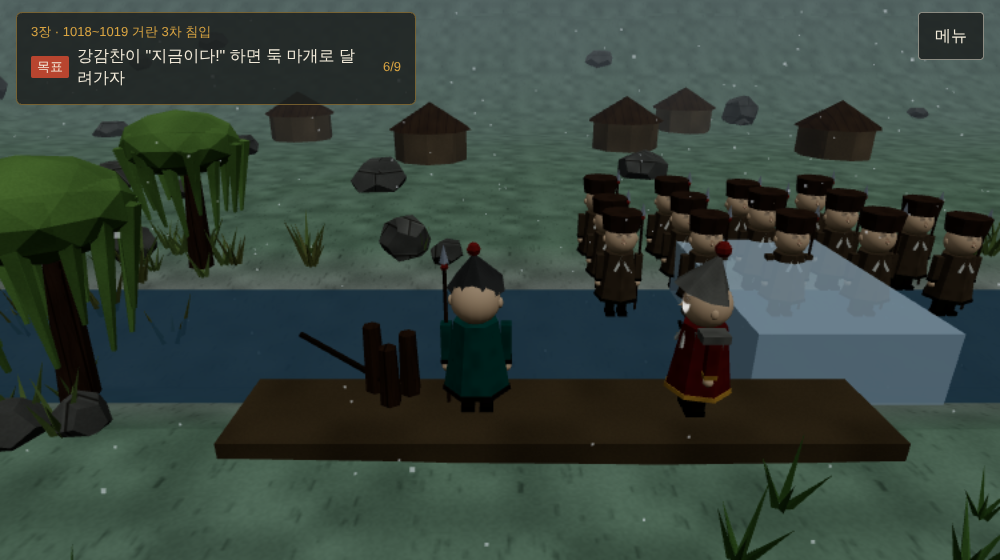
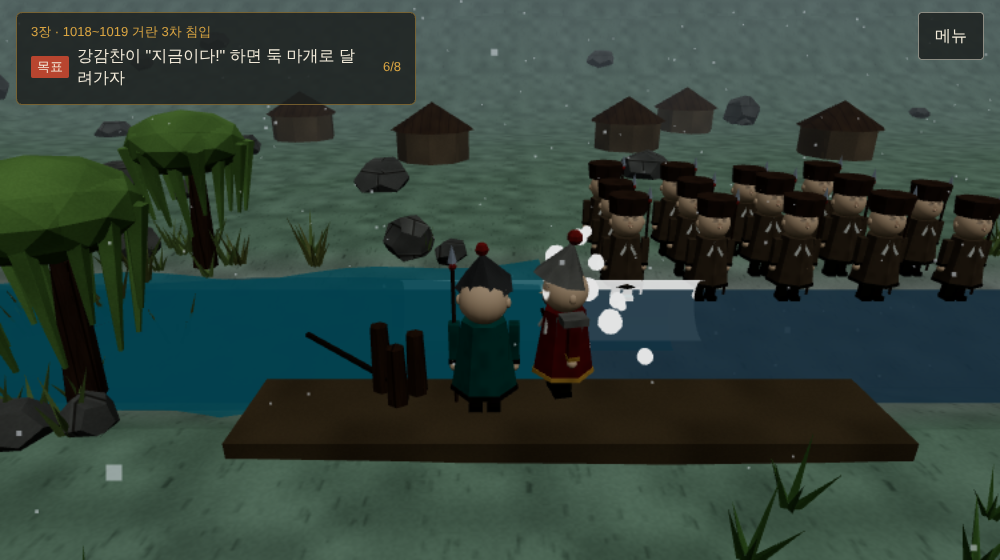
고려 3장 고칠 곳 셋(D-12): 미리 와 있으면 신호 없음·강감찬 곁에서 기다려야 신호, 귀주는 장면 전환으로 언덕 위 대치, 쏟아지는 물을 물처럼
- 마개·북 앞에 미리 오면 '내 곁에서 기다려라' + 강감찬 곁으로 화살표, 곁으로 돌아와야 '지금이다!'
- 귀주: 짧게 어두워졌다 밝아지며 귀주 언덕(진영과 멀리 떨어진 곳)으로, 거란군은 들판 건너편(약 20m), 진영 울타리·삼교천 거란군은 숨김
- 물: 청록 반투명 물살 + 흰 물거품 + 물보라(보통·높음만 출렁임), 거란군은 물에 밀려 북쪽 강둑으로 물러남(가라앉지 않음)
- 사진 ch3-game.png 다시, ch3-guiju.png

Claude-Session: https://claude.ai/code/session_014LB5kAoBxkJ3uzw5BHNRPe

diff --git a/chapters/ch3/scene.js b/chapters/ch3/scene.js
@@ -13,7 +13,13 @@ import { createWeather } from '../../core/weather.js';
 const RIVER_Z = -8, RIVER_W = 6;
 const DAM_X = -10;   // 쇠가죽 둑(냇물 위쪽). 물은 +x 쪽(아래쪽)으로 흐른다
 const ARMY_X = 1.5;  // 거란군이 냇물을 건너는 여울(둑 위 학생 자리에서 화면 안에 보이게)
-const GUJU_Z = 42;   // 귀주 벌판(진영 남문 밖). 귀주 놀이 때만 보인다
+const GUJU_Z = 75;   // 귀주 벌판(진영에서 멀리 남쪽, 장면 전환으로만 간다). 귀주 놀이 때만 보인다
+// 귀주 언덕(D-12): 고려군 뒤 둥근 언덕. 꼭대기(타원, 가로 반지름 12·세로 6)는 높이 HILL_H로 평평하다
+export const HILL = { x: 0, z: GUJU_Z + 11, rx: 12, rz: 6 };
+export const HILL_H = 1.2;
+export function hillHeight(x, z) {
+  return ((x - HILL.x) / HILL.rx) ** 2 + ((z - HILL.z) / HILL.rz) ** 2 < 1 ? HILL_H : 0;
+}
 const GATE_Z = 24;   // 진영 남문
 // 냇가 둑(D-10): 학생과 강감찬이 올라서는 흙둑. 둑 위 높이 BANK_TOP
 export const BANK = { x0: DAM_X - 0.6, x1: DAM_X + 10.6, z0: -4.6, z1: -2.6 };
@@ -32,6 +38,52 @@ function groundH(x, z) {
 }
 
 function seeded(s) { return () => (s = (s * 16807) % 2147483647) / 2147483647; }
+
+// 쏟아지는 물(D-12): 둑에서 아래쪽(+x)으로 흘러가며 퍼지는 청록 반투명 물살과 앞쪽의 흰 물거품.
+// 평면·곡면 몇 장으로 만들고, 화질 '보통·높음'(waves)에서만 꼭짓점을 위치에 따라 출렁이게 한다.
+function makeFlood(parent, waves) {
+  const g = new THREE.Group(); g.visible = false; parent.add(g);
+  const LEN = 34, W = RIVER_W + 1.2;
+  const bodyGeo = new THREE.PlaneGeometry(LEN, W, waves ? 34 : 1, waves ? 6 : 1).rotateX(-Math.PI / 2).translate(-LEN / 2, 0, 0); // 앞끝이 x=0
+  const body = new THREE.Mesh(bodyGeo, new THREE.MeshPhongMaterial({ color: 0x2f8a92, transparent: true, opacity: 0.78, shininess: 60, specular: 0x9fd6dc, depthWrite: false }));
+  g.add(body);
+  const back = new THREE.Mesh(new THREE.PlaneGeometry(LEN, W + 1.6).rotateX(-Math.PI / 2).translate(-LEN / 2, -0.12, 0), new THREE.MeshLambertMaterial({ color: 0x1f6670, transparent: true, opacity: 0.55, depthWrite: false }));
+  g.add(back);
+  // 앞쪽 물마루: 반쯤 감긴 곡면(물살 색) 위에 흰 물거품 곡면
+  const crestGeo = new THREE.CylinderGeometry(0.75, 0.75, W, 12, 1, true, 0, Math.PI).rotateX(Math.PI / 2).rotateY(Math.PI / 2);
+  const crest = new THREE.Mesh(crestGeo, new THREE.MeshPhongMaterial({ color: 0x3fa3aa, transparent: true, opacity: 0.85, side: THREE.DoubleSide, depthWrite: false }));
+  crest.position.set(-0.4, 0.15, 0); g.add(crest);
+  const foamGeo = new THREE.CylinderGeometry(0.85, 0.85, W + 0.3, 12, waves ? 6 : 1, true, 0, Math.PI * 0.9).rotateX(Math.PI / 2).rotateY(Math.PI / 2);
+  const foam = new THREE.Mesh(foamGeo, new THREE.MeshBasicMaterial({ color: 0xf4f8f8, transparent: true, opacity: 0.9, side: THREE.DoubleSide, depthWrite: false }));
+  foam.position.set(0.1, 0.55, 0); g.add(foam);
+  const spray = [];
+  if (waves) for (let i = 0; i < 12; i++) { // 앞에서 튀는 물보라(보통·높음만)
+    const s = new THREE.Mesh(new THREE.SphereGeometry(0.35, 7, 5), foam.material); s.userData.k = (i * 0.37) % 1; g.add(s); spray.push(s);
+  }
+  const bp = bodyGeo.attributes.position, base = Float32Array.from(bp.array);
+  const fp = foamGeo.attributes.position, fbase = Float32Array.from(fp.array);
+  return {
+    group: g,
+    // t초째 모습: 앞끝 x, 퍼지는 정도, 출렁임
+    show(front, spread, t) {
+      g.visible = true;
+      g.position.set(front, -0.3, RIVER_Z);
+      g.scale.set(1, 1, spread);
+      foam.scale.y = 1 + Math.sin(t * 9) * 0.12; crest.rotation.x = Math.sin(t * 5) * 0.08;
+      if (waves) {
+        for (let i = 0; i < bp.count; i++) {
+          const x = base[i * 3], z = base[i * 3 + 2], near = Math.max(0, 1 + x / 8); // 앞쪽일수록 높고 거칠다
+          bp.setY(i, Math.sin(x * 0.9 + t * 7 + z * 0.8) * 0.12 + Math.cos(z * 1.7 - t * 5) * 0.06 + near * 0.5);
+        }
+        bp.needsUpdate = true;
+        for (let i = 0; i < fp.count; i++) fp.setY(i, fbase[i * 3 + 1] + Math.sin(fbase[i * 3 + 2] * 2.3 + t * 11) * 0.08);
+        fp.needsUpdate = true;
+        spray.forEach((s, i) => { const k = (t * 1.6 + s.userData.k) % 1; s.position.set(0.3 + k * 1.5, 0.6 + Math.sin(k * Math.PI) * 1.1, (i / 11 - 0.5) * W * 0.95); s.scale.setScalar(1 - k * 0.7); });
+      }
+    },
+    hide() { g.visible = false; },
+  };
+}
 
 export function buildCh3Scene(world) {
   const L = world.level, rand = seeded(19);
@@ -105,9 +157,7 @@ export function buildCh3Scene(world) {
   const plugRing = new THREE.Mesh(new THREE.RingGeometry(0.9, 1.25, 28), ring.material.clone());
   plugRing.rotation.x = -Math.PI / 2; plugRing.position.set(plugAt.x, BANK_TOP + 0.06, plugAt.z); plugRing.visible = false; L.add(plugRing);
   // 터지는 물결
-  const wave = mk(new THREE.BoxGeometry(4, 1.6, RIVER_W), 0xcfe3ec, DAM_X, 0.3, RIVER_Z, L, false);
-  wave.material = new THREE.MeshLambertMaterial({ color: 0xcfe3ec, transparent: true, opacity: 0.8 });
-  wave.visible = false;
+  const flood = makeFlood(L, world.quality.water === 'waves');
 
   // 냇물을 건너는 거란군 (북쪽 강둑 → 남쪽)
   const zNorth = RIVER_Z - RIVER_W / 2, zSouth = RIVER_Z + RIVER_W / 2;
@@ -128,25 +178,29 @@ export function buildCh3Scene(world) {
   const guju = new THREE.Group(); guju.visible = false; L.add(guju);
   const gujuFlags = [], gujuKhitan = [], gujuGoryeo = [];
   for (let i = 0; i < 12; i++) {
-    const p = makePerson(LOOKS.player); p.position.set(-11 + i * 2, 0, GUJU_Z + 6); p.rotation.y = Math.PI; guju.add(p); gujuGoryeo.push(p);
-    const q = makePerson(LOOKS.khitan); q.position.set(-11 + i * 2, 0, GUJU_Z - 6); q.rotation.order = 'YXZ'; guju.add(q); gujuKhitan.push(q);
+    const p = makePerson(LOOKS.player); p.position.set(-11 + i * 2, 0, GUJU_Z + 2); p.rotation.y = Math.PI; guju.add(p); gujuGoryeo.push(p);
+    const q = makePerson(LOOKS.khitan); q.position.set(-11 + i * 2, 0, GUJU_Z - 18); q.rotation.order = 'YXZ'; guju.add(q); gujuKhitan.push(q);
   }
   // 싸움 먼지: 두 군대가 부딪치는 곳에 피어오르는 흙먼지(처음엔 숨김)
   const dust = [];
   for (let i = 0; i < 10; i++) {
     const d = new THREE.Mesh(new THREE.SphereGeometry(1, 8, 6), new THREE.MeshLambertMaterial({ color: 0xb8a888, transparent: true, opacity: 0, depthWrite: false }));
-    d.position.set(-10 + i * 2.2, 0.8, GUJU_Z); d.userData.ph = i * 0.7; d.visible = false; guju.add(d); dust.push(d);
+    d.position.set(-10 + i * 2.2, 0.8, GUJU_Z - 16); d.userData.ph = i * 0.7; d.visible = false; guju.add(d); dust.push(d);
   }
   for (const [x, c] of [[-8, 0xb8452f], [0, 0xd9a441], [8, 0xb8452f]]) {
-    mk(new THREE.CylinderGeometry(0.08, 0.08, 5, 5), 0x5a3f2a, x, 2.5, GUJU_Z + 8, guju);
+    mk(new THREE.CylinderGeometry(0.08, 0.08, 5, 5), 0x5a3f2a, x, 2.5 + HILL_H, GUJU_Z + 8, guju);
     const f = new THREE.Mesh(new THREE.PlaneGeometry(1.6, 2.2).translate(0.8, 0, 0), new THREE.MeshLambertMaterial({ color: c, side: THREE.DoubleSide }));
-    f.position.set(x, 3.8, GUJU_Z + 8); guju.add(f); gujuFlags.push(f);
+    f.position.set(x, 3.8 + HILL_H, GUJU_Z + 8); guju.add(f); gujuFlags.push(f);
   }
   const reinforcements = new THREE.Group(); reinforcements.visible = false; guju.add(reinforcements);
   for (let i = 0; i < 8; i++) {
     const p = makePerson(look('soldier', { robe: 0x3c5a7a })); p.position.set((i % 4) * 2, 0, Math.floor(i / 4) * 2); p.rotation.y = -Math.PI / 2; reinforcements.add(p);
   }
-  reinforcements.position.set(30, 0, GUJU_Z + 4);
+  reinforcements.position.set(30, 0, GUJU_Z - 2);
+  { // 귀주 언덕: 꼭대기가 평평한 둥근 흙언덕(고려군 뒤)
+    const hill = mk(new THREE.CylinderGeometry(1, 1.35, HILL_H + 0.4, 24), 0x5f7a45, HILL.x, (HILL_H + 0.4) / 2 - 0.4, HILL.z, guju);
+    hill.scale.set(HILL.rx, 1, HILL.rz);
+  }
   // 신호 북(D-10): 고려군 깃발 뒤 나무 틀에 건 큰 북. 빛나는 원은 강감찬이 "지금이다!" 할 때 켜진다
   const drumMesh = new THREE.Group(); guju.add(drumMesh);
   for (const sx of [-0.75, 0.75]) mk(new THREE.BoxGeometry(0.16, 2, 0.16), 0x5a3f2a, sx, 1, 0, drumMesh);
@@ -154,25 +208,26 @@ export function buildCh3Scene(world) {
   const drumBody = mk(new THREE.CylinderGeometry(0.62, 0.62, 0.7, 14), 0x8a2f24, 0, 1.25, 0, drumMesh); drumBody.rotation.x = Math.PI / 2;
   for (const sz of [-0.36, 0.36]) { const head = mk(new THREE.CylinderGeometry(0.6, 0.6, 0.04, 14), 0xe2d6b4, 0, 1.25, sz, drumMesh); head.rotation.x = Math.PI / 2; }
   const drumRing = new THREE.Mesh(new THREE.RingGeometry(0.9, 1.25, 28), ring.material.clone());
-  drumRing.rotation.x = -Math.PI / 2; drumRing.position.y = 0.08; drumRing.visible = false; guju.add(drumRing);
+  drumRing.rotation.x = -Math.PI / 2; drumRing.visible = false; guju.add(drumRing);
   const drum = { x: 0, z: GUJU_Z + 11, r: 1.3, mesh: drumMesh, ring: drumRing,
-    place(x) { this.x = x; drumMesh.position.set(x, 0, this.z - 1.2); drumRing.position.x = x; drumRing.position.z = this.z; } };
+    place(x) { this.x = x; drumMesh.position.set(x, HILL_H, this.z - 1.2); drumRing.position.set(x, HILL_H + 0.08, this.z); } };
   drum.place(5);
 
   // 진영 남문과 울타리(D-10 시작 장면): 문짝 두 개가 열리고 학생이 걸어 들어온다. 문 안쪽 길옆에 이름판
+  const campEdge = new THREE.Group(); L.add(campEdge); // 귀주 장면에서는 숨긴다(멀리 진영 울타리가 보이지 않게)
   {
     const xs = [];
     for (let x = -34; x <= 34; x += 0.9) if (Math.abs(x) > 2.6) xs.push(x);
     const pm = new THREE.InstancedMesh(new THREE.CylinderGeometry(0.17, 0.2, 2.6, 6), mat(0x6b4a32, 'wood', 'object'), xs.length);
     const o = new THREE.Object3D();
     xs.forEach((x, i) => { o.position.set(x, 1.3, GATE_Z); o.rotation.y = i; o.updateMatrix(); pm.setMatrixAt(i, o.matrix); });
-    pm.castShadow = true; L.add(pm);
+    pm.castShadow = true; campEdge.add(pm);
     for (let x = -33; x <= 33; x += 1.6) if (Math.abs(x) > 3) world.addCollider({ x, z: GATE_Z, r: 0.9 });
-    for (const sx of [-1, 1]) mk(new THREE.BoxGeometry(0.4, 3.6, 0.4), 0x5a3f2a, sx * 2.7, 1.8, GATE_Z);
-    mk(new THREE.BoxGeometry(6, 0.35, 0.45), 0x5a3f2a, 0, 3.5, GATE_Z);
+    for (const sx of [-1, 1]) mk(new THREE.BoxGeometry(0.4, 3.6, 0.4), 0x5a3f2a, sx * 2.7, 1.8, GATE_Z, campEdge);
+    mk(new THREE.BoxGeometry(6, 0.35, 0.45), 0x5a3f2a, 0, 3.5, GATE_Z, campEdge);
   }
-  const gate = gateLeaves(L, { x: 0, z: GATE_Z, width: 5, height: 2.6, color: 0x6b4a32 });
-  nameBoard(L, '삼교천 진영', 3.5, GATE_Z - 3); // 출처 S3(흥화진 앞 삼교천)
+  const gate = gateLeaves(campEdge, { x: 0, z: GATE_Z, width: 5, height: 2.6, color: 0x6b4a32 });
+  nameBoard(campEdge, '삼교천 진영', 3.5, GATE_Z - 3); // 출처 S3(흥화진 앞 삼교천)
 
   // 빗물 웅덩이 (진영 바닥)
   {
@@ -191,8 +246,8 @@ export function buildCh3Scene(world) {
     }
     const keep = [[10, -1.5], [-14, 9], [-6, 12], [8, 11], [16, 8], [22, 12], [-24, 6], [-12, 3], [-2, 7], [6, 3.5], [14, 4], [24, 5], [-4, 5], [5, 7.5], [0, 10], [DAM_X + 1, -1.4], [0, 14], [3.5, GATE_Z - 3]].map(([x, z]) => ({ x, z, r: 2.6 }));
     scatter(world, { kind: 'grass', count: 120, area: { x0: -28, x1: 28, z0: -2, z1: 16 }, avoid: keep, seed: 43, ground: groundH, color: 0x6f8f4a });
-    scatter(world, { kind: 'pine', count: 40, area: { x0: -70, x1: 70, z0: 20, z1: 110 }, avoid: [{ x: 0, z: GUJU_Z, r: 30 }, { x: 22, z: GUJU_Z + 18, r: 10 }, { x: 0, z: GATE_Z + 8, r: 10 }, { x: -15, z: GUJU_Z, r: 14 }], seed: 44, ground: groundH, scale: [1, 1.6] });
-    scatter(world, { kind: 'grass', count: 140, area: { x0: -26, x1: 34, z0: GUJU_Z - 14, z1: GUJU_Z + 16 }, seed: 45, ground: groundH, color: 0x7a9450 });
+    scatter(world, { kind: 'pine', count: 40, area: { x0: -70, x1: 70, z0: 20, z1: 110 }, avoid: [{ x: 0, z: GUJU_Z, r: 30 }, { x: 22, z: GUJU_Z + 18, r: 10 }, { x: 0, z: GATE_Z + 8, r: 10 }, { x: 0, z: GUJU_Z - 30, r: 22 }], seed: 44, ground: groundH, scale: [1, 1.6] });
+    scatter(world, { kind: 'grass', count: 140, area: { x0: -26, x1: 34, z0: GUJU_Z - 24, z1: GUJU_Z + 4 }, seed: 45, ground: groundH, color: 0x7a9450 });
     scatter(world, { kind: 'rock', count: 20, area: { x0: -60, x1: 60, z0: -60, z1: -16 }, seed: 46, ground: groundH, scale: [0.8, 2.2] });
   }
   const rain = createWeather(world, 'rain', { count: 900 });
@@ -204,16 +259,15 @@ export function buildCh3Scene(world) {
   // 깃발 방향: 북쪽(-z)으로 휘날리면 rotation.y = +PI/2, 남쪽이면 -PI/2
   let flagDir = -Math.PI / 2;
   const scene = {
-    gate, damX: DAM_X, plug: { ...plugAt, r: 1.3, ring: plugRing }, drum,
-    stand: { x: DAM_X + 6, z: -3.6 }, gangOnBank: [DAM_X + 7.4, -3.6],
+    gate, campEdge, damX: DAM_X, plug: { ...plugAt, r: 1.3, ring: plugRing }, drum,
+    stand: { x: DAM_X + 6, z: -3.6 }, gangOnBank: [DAM_X + 5, -4.2], // 강감찬은 학생 서쪽(마개 쪽)에 서서 거란군 쪽 화면을 가리지 않는다
     gujuStand: [-2.5, GUJU_Z + 11], gangAtGuju: [-4, GUJU_Z + 11],
     // 둑으로 가는 길(쇠가죽을 둔 곳 옆에서 둑 위로), 귀주로 가는 길(남문을 나가 거란군 줄의 서쪽으로 돌아 고려군 뒤로)
-    bankPath: [[DAM_X + 3, -1.6], [DAM_X + 3.6, -3.6], [DAM_X + 7.4, -3.6]],
-    gujuPath: [[DAM_X + 7, -1.2], [0, 2], [0, 14], [0, GATE_Z + 2], [-15, GATE_Z + 6], [-15, GUJU_Z + 11], [-4, GUJU_Z + 11]],
-    hides, damWall, ring, wave, rain, flagPoles, gujuFlags, gujuKhitan, gujuGoryeo, reinforcements, guju, dust, gujuZ: GUJU_Z,
+    bankPath: [[DAM_X + 3, -1.6], [DAM_X + 3.6, -3.6], [DAM_X + 5, -4.2]],
+    hides, damWall, ring, flood, rain, flagPoles, gujuFlags, gujuKhitan, gujuGoryeo, reinforcements, guju, dust, gujuZ: GUJU_Z,
     dam: { x: DAM_X + 1, z: -1.4, r: 1.6 },
     river: { army, setCross, zNorth, zSouth },
-    gujuBounds: { x0: -12, x1: 12, z0: GUJU_Z + 7, z1: GUJU_Z + 12 },
+    gujuBounds: { x0: -9, x1: 9, z0: GUJU_Z + 8, z1: GUJU_Z + 14 },
     start: [0, 10],
     setFlags(northward) { flagDir = northward ? Math.PI / 2 : -Math.PI / 2; rain.setWind(northward ? -2 : 2); },
   };
@@ -221,7 +275,7 @@ export function buildCh3Scene(world) {
     for (const f of [...flagPoles, ...gujuFlags]) f.rotation.y += (flagDir + Math.sin(t * 3 + f.position.x) * 0.25 - f.rotation.y) * Math.min(1, dt * 3);
     for (const r of [ring, plugRing, drumRing]) if (r.visible) r.material.opacity = 0.55 + Math.sin(t * 4) * 0.3;
     // 흙둑 위에서는 학생과 강감찬이 둑 높이에 선다
-    for (const o of [world.player, world.npcs.get('gangamchan').mesh]) o.position.y += (bankHeight(o.position.x, o.position.z) - o.position.y) * Math.min(1, dt * 14);
+    for (const o of [world.player, world.npcs.get('gangamchan').mesh]) o.position.y += (Math.max(bankHeight(o.position.x, o.position.z), guju.visible ? hillHeight(o.position.x, o.position.z) : 0) - o.position.y) * Math.min(1, dt * 14);
     hides.forEach((h, i) => { if (!h.taken) h.mesh.rotation.y = Math.sin(t + i) * 0.2; });
   });
   scene.setFlags(false);

diff --git a/chapters/ch3/script.js b/chapters/ch3/script.js
@@ -16,7 +16,7 @@ export default {
     { who: 'guide', text: '여기는 흥화진 앞을 흐르는 냇물, 삼교천 가의 고려군 진영이야. 비바람이 거세게 불고 있어. 머리 위에 노란 느낌표가 뜬 병사에게 무슨 일인지 물어보자.' },
   ],
 
-  goals: ['진영 사람들의 이야기를 들어 보자', '강감찬을 찾아가자', '쇠가죽 묶음을 모두 모으자', '쇠가죽을 둑(빛나는 원)으로 가져가자', '강감찬을 따라 둑 위로 가자', '강감찬이 "지금이다!" 하면 둑 마개로 달려가자', '강감찬을 따라 귀주 언덕으로 가자', '깃발이 북쪽으로 휘날리면 신호 북을 치자', '배운 내용을 확인해 보자'],
+  goals: ['진영 사람들의 이야기를 들어 보자', '강감찬을 찾아가자', '쇠가죽 묶음을 모두 모으자', '쇠가죽을 둑(빛나는 원)으로 가져가자', '강감찬을 따라 둑 위로 가자', '강감찬이 "지금이다!" 하면 둑 마개로 달려가자', '깃발이 북쪽으로 휘날리면 신호 북을 치자', '배운 내용을 확인해 보자'],
 
   // 한 사람의 이야기를 처음 다 들은 뒤, 다음에 찾아갈 사람을 알려 주는 진행 안내(병사 → 척후병 → 강감찬)
   next: {
@@ -64,15 +64,15 @@ export default {
       { who: 'gangamchan', text: '둑 위로 올라가자. 나를 따르라.' },
       { who: 'guide', text: '강감찬이 앞장서서 둑 위로 올라가. 뒤따라가자.' },
     ],
-    start: [{ who: 'gangamchan', text: '거란군이 냇물을 건너기 시작한다. 내가 "지금이다!" 하면 저 둑 마개로 달려가라.' }],
+    start: [{ who: 'gangamchan', text: '거란군이 냇물을 건너기 시작한다. 내 곁에서 기다리다가, 내가 "지금이다!" 하면 저 둑 마개로 달려가라.' }],
     howto: {
       title: '둑 터뜨리기',
-      steps: ['강감찬이 "지금이다!" 하면 빛나는 둑 마개로 걸어가요.', '거란군이 냇물을 다 건너기 전에 마개에 닿으면 성공!'],
+      steps: ['강감찬 곁에서 기다리다 "지금이다!" 하면 빛나는 둑 마개로 걸어가요.', '거란군이 냇물을 다 건너기 전에 마개에 닿으면 성공!'],
       keyboard: 'W A S D 또는 방향키로 둑 위를 걷기',
       touch: '화면 왼쪽을 끌어 둑 위를 걷기',
     },
     now: '지금이다!',
-    wait: '아직이다!',
+    wait: '아직이다! 내 곁에서 기다려라',
     late: '적이 냇물을 거의 다 건넜어요. 다시 해 봐요.',
     done: [{ who: 'narr', text: '막아 둔 물을 한꺼번에 내려보내 거란군에 큰 피해를 주었어요.', src: ['S3'] }],
   },
@@ -80,18 +80,17 @@ export default {
   guju: {
     lead: [
       { who: 'narr', text: '1019년 2월, 강감찬은 귀주에서 거란군과 다시 맞섰어요.', src: ['S5'] },
-      { who: 'gangamchan', text: '귀주로 간다. 나를 따르라.' },
     ],
-    intro: [{ who: 'guide', text: '여기는 귀주 벌판이야. 고려군과 거란군이 팽팽하게 맞서고 있어!' }],
-    start: [{ who: 'gangamchan', text: '깃발을 잘 보아라. 내가 "지금이다!" 하면 저 신호 북을 울려라.' }],
+    intro: [{ who: 'guide', text: '여기는 귀주 언덕이야. 고려군과 거란군이 들판을 사이에 두고 맞서고 있어!' }],
+    start: [{ who: 'gangamchan', text: '내 곁에서 깃발을 잘 보아라. 내가 "지금이다!" 하면 저 신호 북을 울려라.' }],
     howto: {
       title: '귀주의 바람',
-      steps: ['깃발이 북쪽으로 휘날리고 강감찬이 "지금이다!" 하면 빛나는 신호 북으로 걸어가요.', '바람이 잦아들기 전에 북에 닿으면 성공!'],
+      steps: ['강감찬 곁에서 깃발을 보다가 "지금이다!" 하면 빛나는 신호 북으로 걸어가요.', '바람이 잦아들기 전에 북에 닿으면 성공!'],
       keyboard: 'W A S D 또는 방향키로 이동',
       touch: '화면 왼쪽을 끌어 이동',
     },
     now: '지금이다!',
-    wait: '깃발을 보아라!',
+    wait: '깃발을 보아라! 내 곁에서 기다려라',
     late: '바람이 다시 잦아들었어요. 다시 해 봐요.',
     arrive: '김종현의 지원군이 도착했다!',
     charge: [{ who: 'gangamchan', text: '바람이 우리 편이다! 모두 앞으로 나아가라!' }],

diff --git a/tests/ch3.test.js b/tests/ch3.test.js
@@ -174,5 +174,77 @@ test('ch3 D-10: full run keeps the low camera and walks (no fixed camera, no but
     eq(r.firstTryTotal, 2); eq(r.firstTryCorrect, 2);
     eq(s.w.followOffset, null);
     ok(sc.damWall.visible, 'dam stays');
+    ok(sc.river.army.position.y > -0.01, 'the Khitan army was pushed back, not sunk');
   } finally { off(); bot.stop(); s.done(); }
 }, { timeout: 150000 });
+
+// ---- D-12: 미리 와 있으면 신호가 나지 않고, 강감찬 곁으로 돌아와야 신호. 귀주는 장면 전환으로 언덕에서 대치 ----
+test('ch3 D-12: waiting at the plug never gets the signal; coming back beside Gang Gam-chan does', async () => {
+  const s = touchSetup(ch3Script.speakers);
+  try {
+    const sc = ch3.buildScene(s.w, s.ctx);
+    setupDam(s.ctx);
+    let res = null;
+    damAttempt(s.ctx, false, { why: '' }).then(r => { res = r; });
+    const y = s.w.player.position.y;
+    s.w.player.position.set(sc.plug.x, y, sc.plug.z);
+    for (let i = 0; i < 140; i++) s.w.step(0.05, { x: 0, z: 0 }); // 7초: 신호 구간(5~8.2초)에 들어섰다
+    await sleep(5);
+    eq(res, null, 'nothing bursts while the student waits at the plug');
+    eq(s.ctx.testHooks.damNow, false, 'no signal yet');
+    const g = s.w.getGoal(); ok(g && Math.abs(g.x - sc.stand.x) < 0.01, 'arrow points back beside Gang Gam-chan');
+    s.w.player.position.set(sc.stand.x, y, sc.stand.z);
+    s.w.step(0.05, { x: 0, z: 0 });
+    eq(s.ctx.testHooks.damNow, true, 'signal once back beside him');
+    s.w.player.position.set(sc.plug.x, y, sc.plug.z);
+    s.w.step(0.05, { x: 0, z: 0 });
+    await sleep(5);
+    eq(res, true);
+  } finally { s.done(); }
+});
+
+test('ch3 D-12: the drum also waits until the student is beside Gang Gam-chan', async () => {
+  const s = touchSetup(ch3Script.speakers);
+  try {
+    const sc = ch3.buildScene(s.w, s.ctx);
+    setupGuju(s.ctx, false);
+    let res = null;
+    gujuAttempt(s.ctx, false, { why: '' }).then(r => { res = r; });
+    s.w.player.position.set(sc.drum.x, s.w.player.position.y, sc.drum.z);
+    for (let i = 0; i < 130; i++) s.w.step(0.05, { x: 0, z: 0 }); // 6.5초: 깃발은 이미 북쪽
+    await sleep(5);
+    eq(res, null); eq(s.ctx.testHooks.drumNow, false);
+    s.w.player.position.set(sc.gujuStand[0], s.w.player.position.y, sc.gujuStand[1]);
+    s.w.step(0.05, { x: 0, z: 0 });
+    eq(s.ctx.testHooks.drumNow, true);
+  } finally { s.done(); }
+});
+
+test('ch3 D-12: Guju opens on the hill beside Gang Gam-chan, the Khitan camp far across the field, no Samgyocheon soldiers', () => {
+  const s = touchSetup(ch3Script.speakers);
+  try {
+    const sc = ch3.buildScene(s.w, s.ctx);
+    setupGuju(s.ctx, false);
+    for (let i = 0; i < 20; i++) s.w.step(0.05, { x: 0, z: 0 });
+    ok(s.w.player.position.y > 1, `student stands on the hill (${s.w.player.position.y.toFixed(2)})`);
+    const gc = s.w.npcs.get('gangamchan').mesh.position;
+    ok(Math.hypot(gc.x - s.w.player.position.x, gc.z - s.w.player.position.z) < 2.6, 'beside Gang Gam-chan');
+    const gap = Math.min(...sc.gujuGoryeo.map(p => p.position.z)) - Math.max(...sc.gujuKhitan.map(p => p.position.z));
+    ok(gap > 15, `the armies face each other across the field (${gap})`);
+    eq(sc.river.army.visible, false, 'Samgyocheon Khitan army hidden');
+    ok(Math.min(...sc.gujuKhitan.map(p => p.position.z)) - 20 > 24, 'Guju is far from the camp');
+  } finally { s.done(); }
+});
+
+test('ch3 D-12: the flood is water (teal, see-through, white foam), pushes the Khitan back and nobody sinks', () => {
+  const s = touchSetup(ch3Script.speakers);
+  try {
+    const sc = ch3.buildScene(s.w, s.ctx);
+    sc.flood.show(0, 1.2, 0.5);
+    let teal = false, foam = false;
+    sc.flood.group.traverse(o => { if (o.material) { const c = o.material.color; if (o.material.transparent && c.b > c.r && c.g > c.r) teal = true; if (c.r > 0.9 && c.g > 0.9 && c.b > 0.9) foam = true; } });
+    ok(teal && foam, 'teal water and white foam');
+    sc.flood.hide();
+    eq(sc.flood.group.visible, false);
+  } finally { s.done(); }
+});

diff --git a/docs/team/decisions.md b/docs/team/decisions.md
@@ -137,7 +137,7 @@
   3. 둑에서 쏟아지는 물을 더 물처럼 보이게 한다(출렁이는 물결·튀는 물, 불길 없음, 화질 제한 안에서).
 - 하지 않을 것: 다른 장 변경, 새 사실, 불길 표현, 전체 테스트(고려 3장 관련만), main 병합·배포
 - 확인 방법: 선생님이 3장을 다시 걸어 보신다
-- 상태: 개발 중
+- 상태: 확인 대기
 
 ## D-13 (2026-10-27) 고려 4장: 말이 모이는 탐험 + 김윤후와 걷는 처인성 방어 + 충주성 문서 가져다 놓기
 - 선생님 결정: "모두 중간". ① 탐험: 백성→관리, 말이 도읍 고르기로 이어짐 ② 처인성: 김윤후를 따라 성벽 위를 걷고, 가리킨 곳에 가까이 가면 궁수가 활을 쏨 ③ 충주성: 김윤후를 따라 관청 마당에 가서 노비 문서를 가져다 놓음(불길 없이 연기). 상시 규칙 모두 적용.
